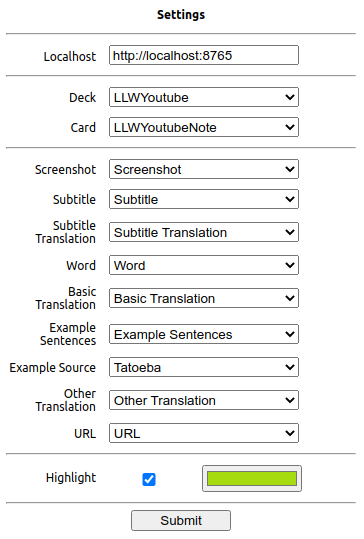
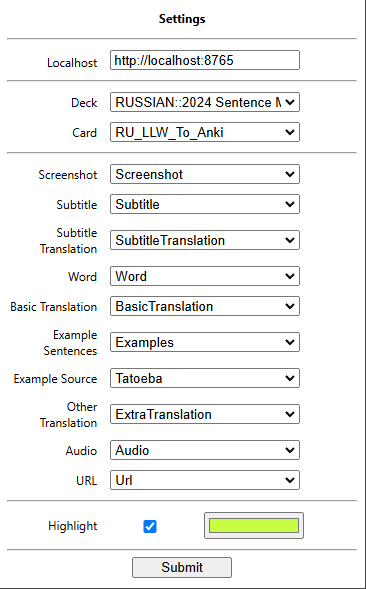
updated README

Changed region(s): [[0.0302, 0.0, 0.967, 1.0], [0.9973, 0.0, 1.0, 1.0]]

diff --git a/README.md b/README.md
@@ -10,16 +10,20 @@ Language Reactor can be found here:
 
 ## Setup
 
-1) Must install [AnkiConnect](https://ankiweb.net/shared/info/2055492159) plugin.
-2) Must leave the Anki desktop application open in order to connect to it.
-3) Install unpacked extension.
-4) Setup the URL (default is `http://localhost:8765`), deck and model
+1) Must install the [AnkiConnect](https://ankiweb.net/shared/info/2055492159) plugin.
+2) Must leave the Anki desktop application open in order for Ankiconnect to connect to it.
+3) Install the unpacked `Language-Learning-With-Anki` extension.
+4) Setup the URL (default is `http://localhost:8765`), deck and model values, making sure the top field of your note type has a [valid field](#empty-note-error) value.
 
 ## Usage
 
 Click a word to bring up the definition popup.
 Clicking the Anki button will send the current word and definition straight to Anki.
-Also, the "RC" option, will remove the colour from the selected word
+The "RC" option, will remove the colour from the selected word
+
+If the highlight word option is turned on then all words sent to Anki will be saved and highlighted, with this setting turned off, words will not be saved so will not be highlighted if turned back on. 
+
+When using the audio field, the extension will replay the subtitle again to collect the audio. Let the video play and wait for the success popup before doing anything else, interupting the playblack may cause a half finished audio track. Subsequent cards made with the same subtitle, will not need to recreate the audio.
 
 ![bubble-screenshot](https://raw.githubusercontent.com/ClearlyKyle/Language-Learning-With-Anki/master/screenshots/popup.PNG)
 
@@ -35,7 +39,8 @@ Exported data fields:
  6) `Example Sentences` - examaples bellow the definitons in the popup, either from current video or Tatoeba
  7) `Example Source`  - Tatoeba or Current video
  8) `Other Translation` - the extra translations of the word, formatted in HTML
- 9) `(URL)` - URL of current video with the current timestamp
+ 9) `Audio` - audio for the current subtitle (limited to 16s)
+ 9) `URL` - URL of current video with the current timestamp
  10) `Highlight` - toggle wether to highlight words exported to Anki in the choosen colour
 
 Settings allow you to choose which fields are filled with what data. A blank options means that data is skipped
@@ -59,6 +64,6 @@ Example of "webCorsOriginList"
     ]
 ```
 
-- `cannot create note because it is empty`
+- `cannot create note because it is empty`<a id="empty-note-error"></a>
 
 Make sure the field at position 1 in your Anki note type (Tools > Manage Note Types) is set to a value in the extentions settings page, if not, then you will get this error. See [also](https://github.com/ClearlyKyle/Language-Learning-With-Anki/issues/7#issuecomment-2510020695)
